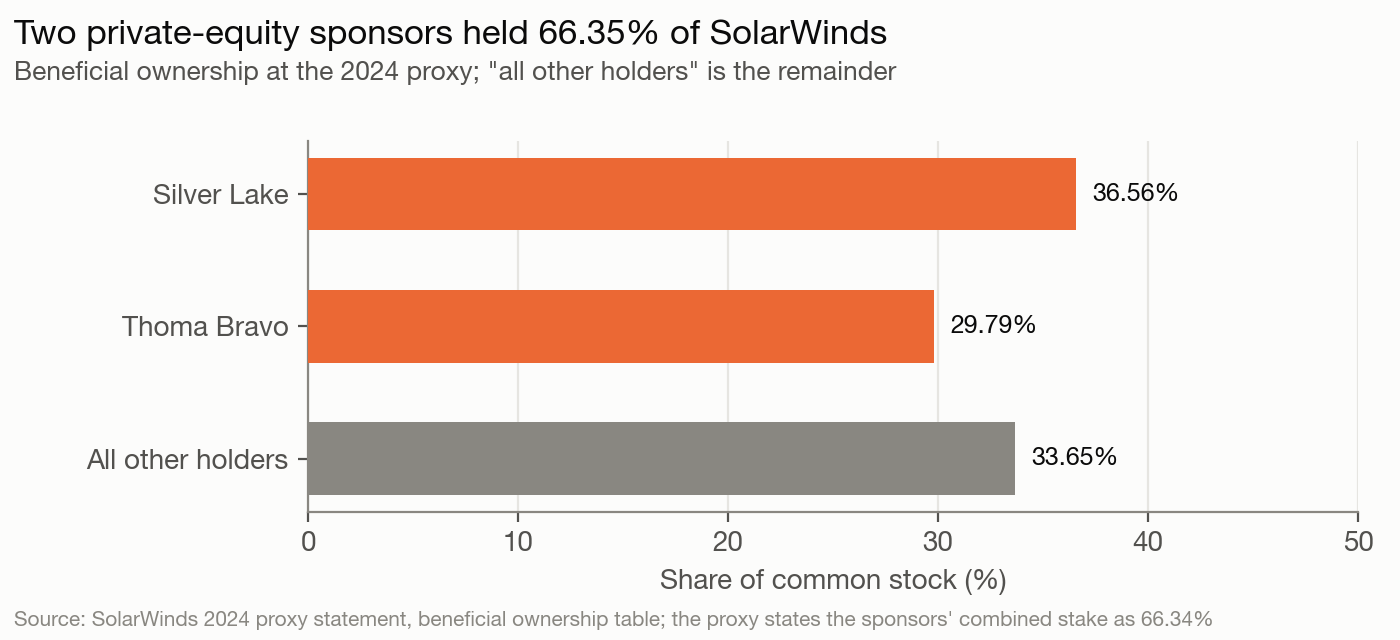
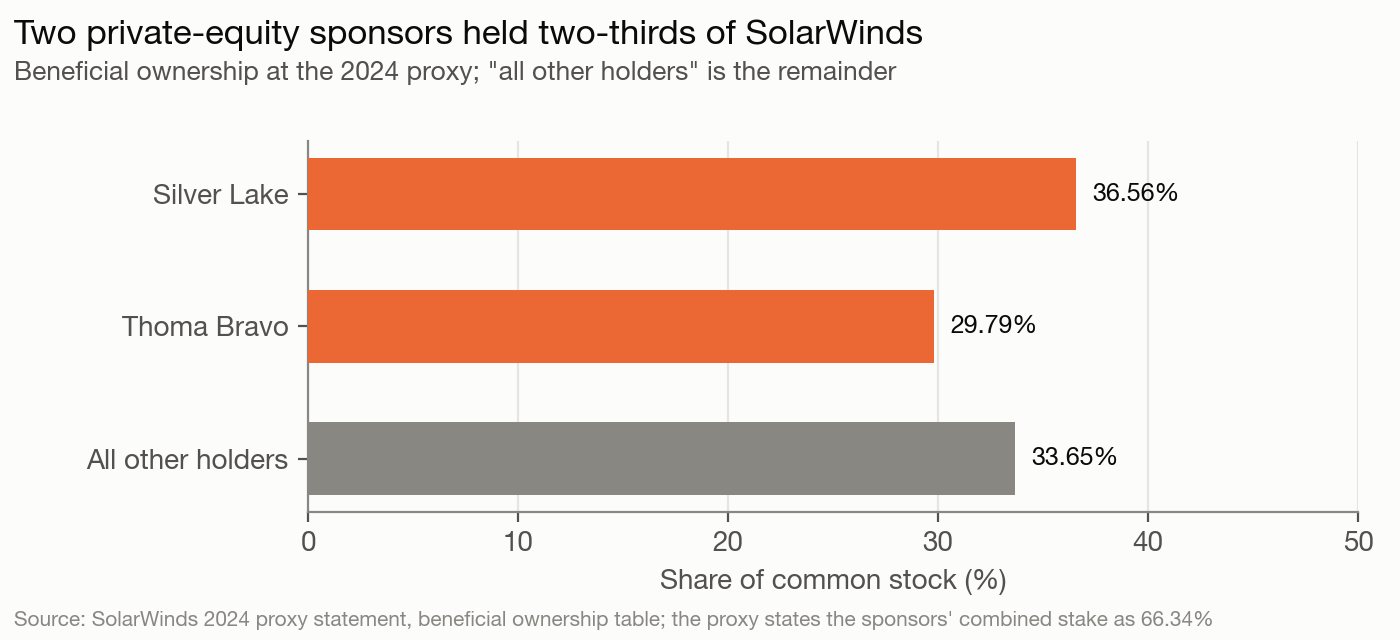
fix(solarwinds): ownership chart title no longer restates a figure that differs from the report text
The chart's title computed 66.35% (sum of the rounded holdings) while the report text gives the proxy's stated 66.34%. The title now says two-thirds; the source line keeps the proxy's figure.

Changed region(s): [[0.3686, 0.0312, 0.6757, 0.0938]]

diff --git a/03-corporate-finance/03-2-course-content/company-valuations/solarwinds/report-exhibits/make-exhibits.py b/03-corporate-finance/03-2-course-content/company-valuations/solarwinds/report-exhibits/make-exhibits.py
@@ -195,7 +195,7 @@ ax.set_yticks(ys, [n for n, _ in pairs])
 ax.set_xlim(0, 50)
 ax.set_xlabel("Share of common stock (%)")
 ax.grid(axis="y", visible=False)
-finish(fig, ax, f"Two private-equity sponsors held {sum(p for _, p in pairs[:-1]):.2f}% of SolarWinds",
+finish(fig, ax, "Two private-equity sponsors held two-thirds of SolarWinds",
        "Beneficial ownership at the 2024 proxy; \"all other holders\" is the remainder",
        "SolarWinds 2024 proxy statement, beneficial ownership table; the proxy states the sponsors' combined stake as 66.34%",
        "exhibit-5-ownership.png", left=0.22)
